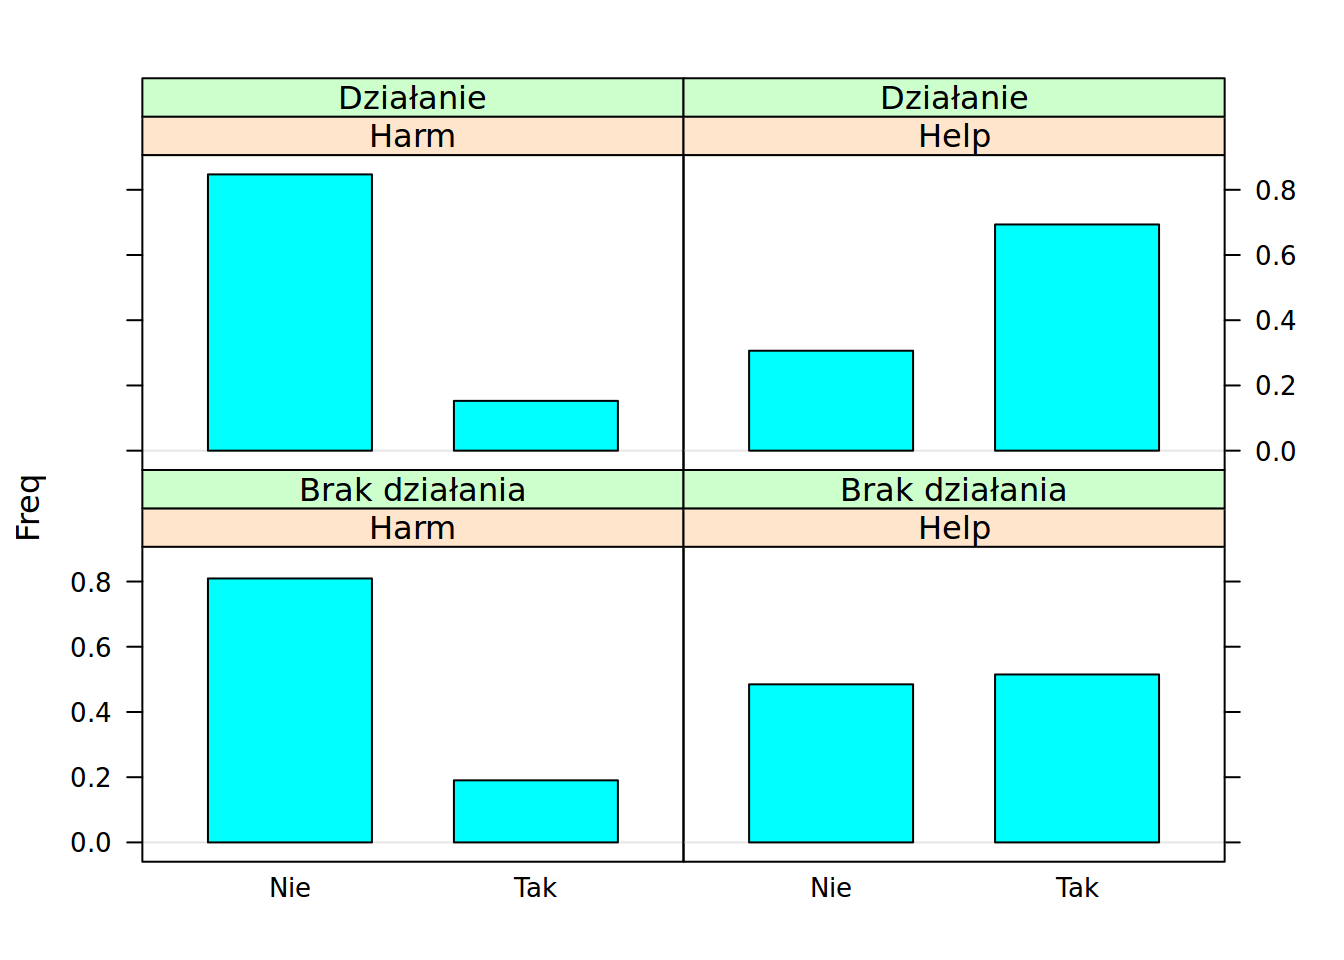
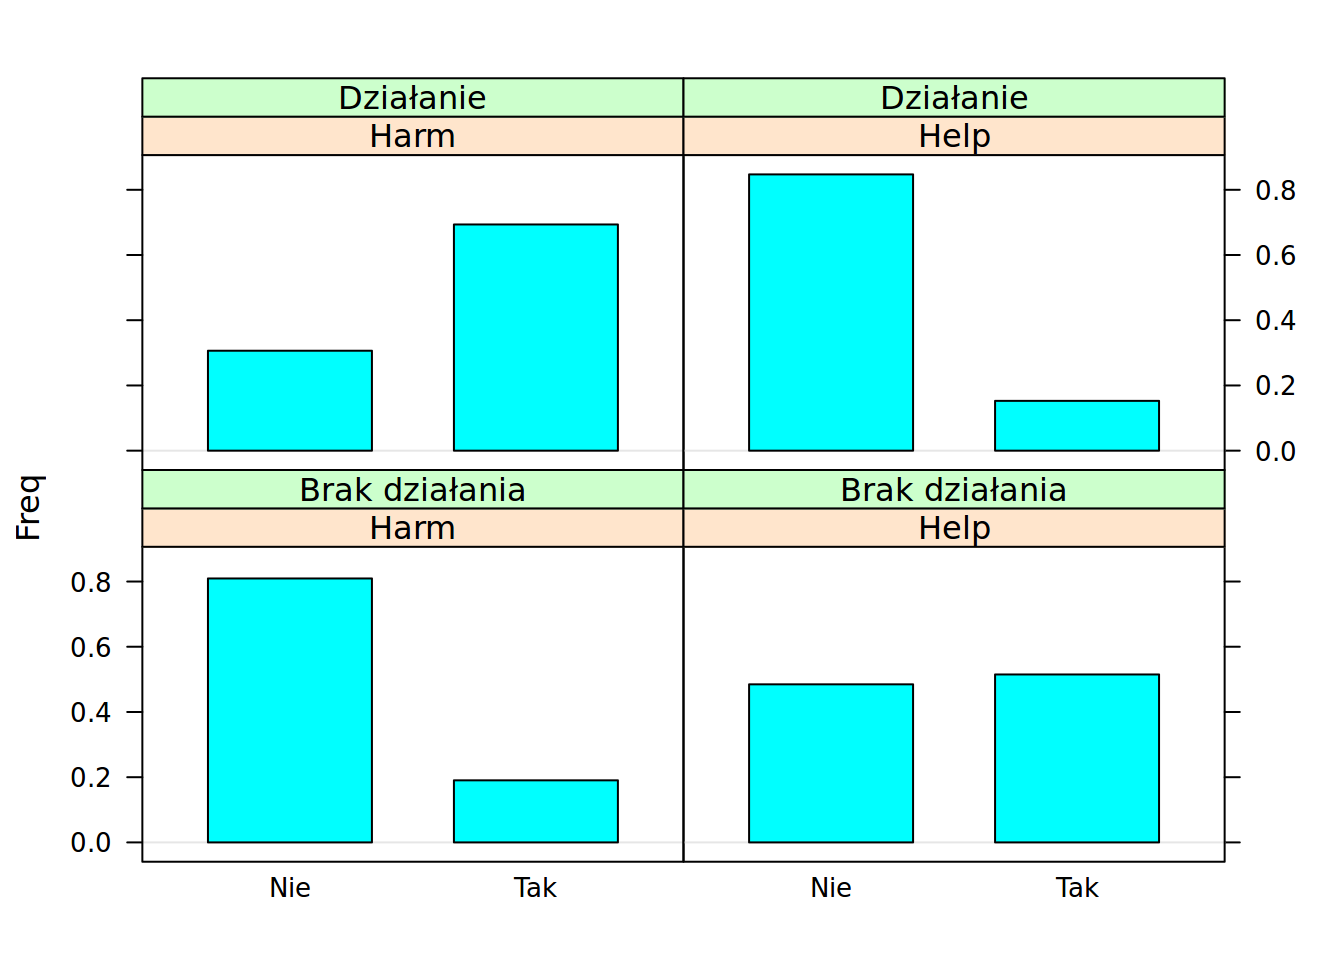
poprawione wykresy

diff --git a/Badania i artykuły/Kolizja norm.md b/Badania i artykuły/Kolizja norm.md
@@ -182,12 +182,29 @@ Każdemu badanemu do scenariusza zostały przedstawione w losowej kolejności dw
 ## Wyniki
 
 #### Czy dyrektor umyślnie (nie) zaszkodził/pomógł środowisku?
-![Scenariusz HARM ](environment.png "Środiwsko")
+![Scenariusz HARM ](environment.png "Środowisko")
+
+
+|                |   HARM  |   HELP  |
+|----------------|---------|---------|
+|                | Tak/Nie | Tak/Nie |
+| Działanie      | 43/19   | 11/61   |
+| Brak działania | 8/34    | 34/32   |
+
 
 #### Czy dyrektor umyślnie (nie) uratował/naraził na śmierć głodową mieszkańców?
-![Scenariusz HELP ](starvation.png "Głód")
+![Scenariusz HELP ](starvation.png "Głód") 
 
-## Dyskusja 
+|                |   HARM  |   HELP  |
+|----------------|---------|---------|
+|                | Tak/Nie | Tak/Nie |
+| Działanie      | 10/52   | 55/17   |
+| Brak działania | 19/23   | 14/52   |
+
+
+## Dyskusja
+to jutro kp 
+
 
 ## Zakończenie
 
